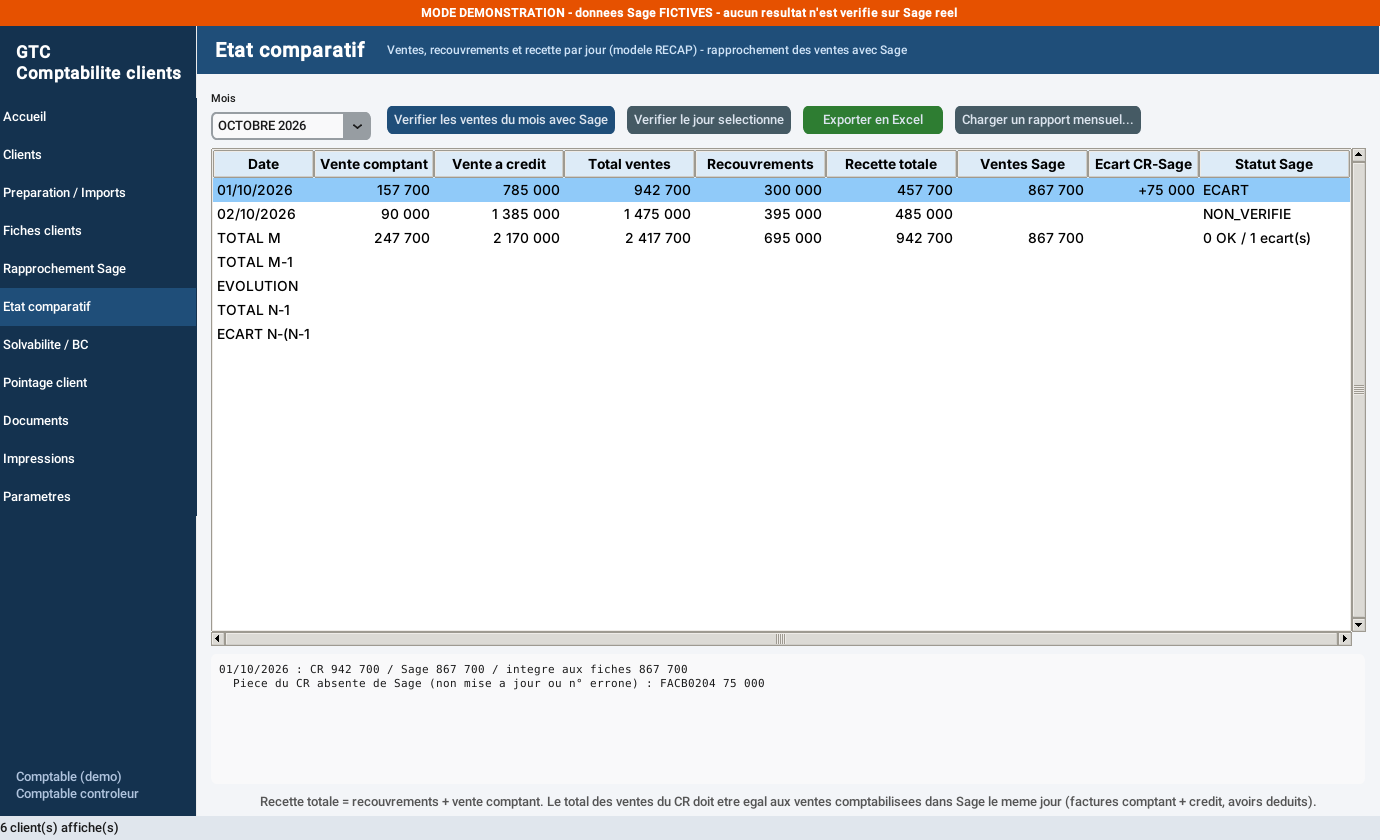
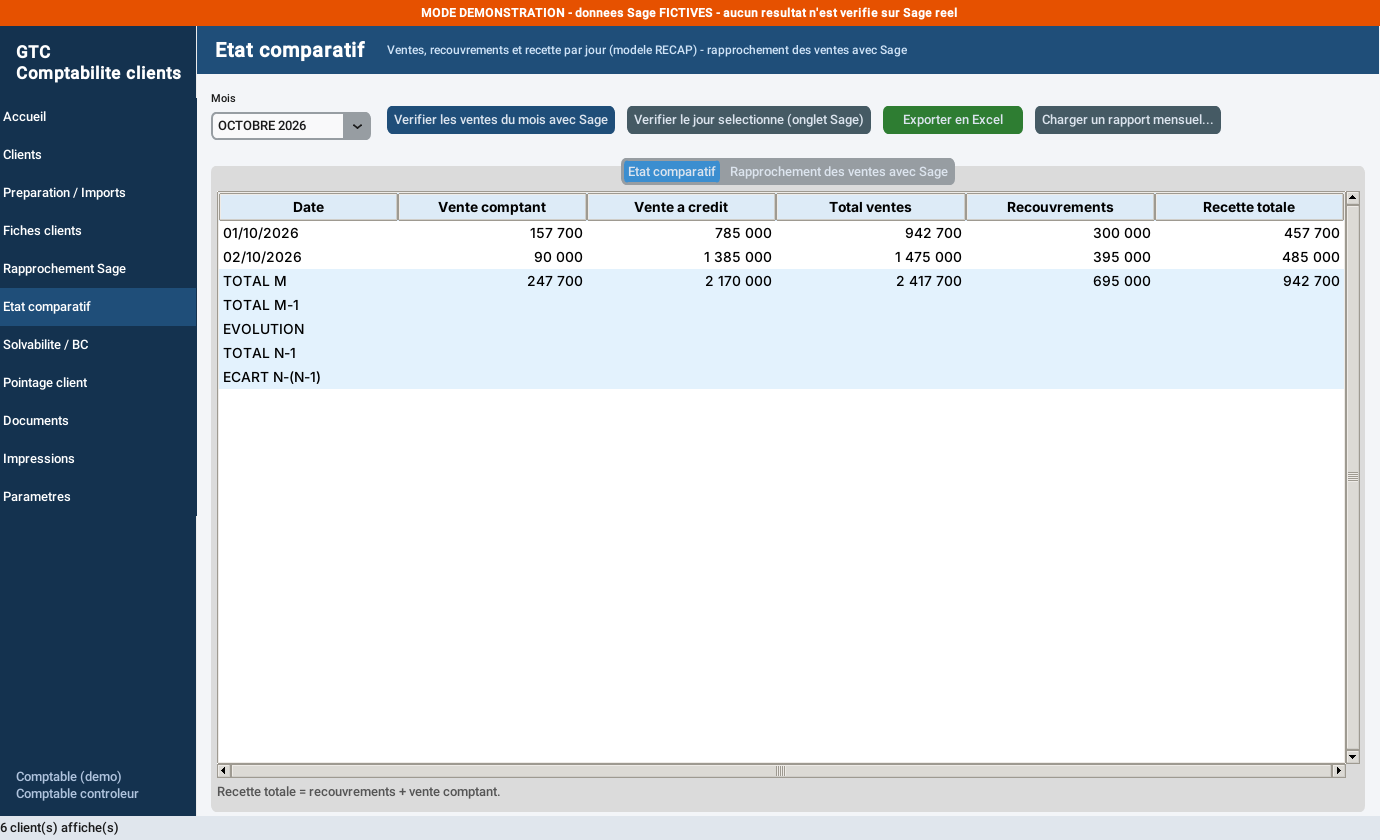
feat(compta-clients): l'etat comparatif s'arrete a la recette totale
- feuille mensuelle et ecran limites aux colonnes du modele : date, vente
  comptant, vente a credit, total ventes, recouvrements, recette totale
  (+ TOTAL M, M-1, EVOLUTION, N-1, ECART)
- rapprochement des ventes CR / Sage et controles presentes a part (onglet
  dedie ; feuilles RAPPROCHEMENT VENTES SAGE et CONTROLES de l'export)

Claude-Session: https://claude.ai/code/session_01Y1jhb7ptYrBLLHPzKGYzbe

Changed region(s): [[0.1558, 0.1238, 0.9971, 0.9905]]

diff --git a/gtc_compta_clients/gtc_compta/services/etat_comparatif.py b/gtc_compta_clients/gtc_compta/services/etat_comparatif.py
@@ -234,8 +234,15 @@ NOMS_MOIS = ["JANVIER", "FEVRIER", "MARS", "AVRIL", "MAI", "JUIN", "JUILLET", "A
              "NOVEMBRE", "DECEMBRE"]
 
 
+COLONNES_ETAT = ["vente_comptant", "vente_credit", "total_ventes", "recouvrements", "recette"]
+ENTETE_ETAT = ["DATES", "VENTE COMPTANT", "VENTE A CREDIT", "TOTAL VENTES", "RECOUVREMENTS", "RECETTE TOTALE"]
+
+
 def exporter_excel(db, agence: str, mois_liste: list[tuple[int, int]], dest, societe: str = "") -> str:
-    """Classeur Excel : une feuille par mois au format de la feuille RECAP, completee du rapprochement Sage."""
+    """Classeur Excel :
+    - une feuille par mois : l'ETAT COMPARATIF au format de la feuille RECAP, arrete a la RECETTE TOTALE ;
+    - RAPPROCHEMENT VENTES SAGE : total des ventes du CR / ventes comptabilisees dans Sage, par jour ;
+    - CONTROLES : TOTAL M-1 saisi dans RECAP compare au M-1 calcule, acompte et cellule du CR (information)."""
     from openpyxl import Workbook
     from openpyxl.styles import Alignment, Border, Font, PatternFill, Side
     wb = Workbook()
@@ -246,54 +253,88 @@ def exporter_excel(db, agence: str, mois_liste: list[tuple[int, int]], dest, soc
     vert = PatternFill("solid", fgColor="E8F5E9")
     fin = Side(style="thin", color="999999")
     cadre = Border(left=fin, right=fin, top=fin, bottom=fin)
-    entete = ["DATES", "VENTE COMPTANT", "VENTE A CREDIT", "TOTAL VENTES", "RECOUVREMENTS", "RECETTE TOTALE",
-              "ACOMPTE (info)", "TOTAL VENTES CR (cellule)", "VENTES SAGE", "ECART CR - SAGE", "STATUT SAGE"]
+
+    def entete(ws, cols):
+        ws.append(cols)
+        for c in ws[ws.max_row]:
+            c.font, c.fill, c.border = gras, bleu, cadre
+            c.alignment = Alignment(wrap_text=True, horizontal="center")
+
+    def montants(ws, debut):
+        for row in ws.iter_rows(min_row=debut, max_row=ws.max_row):
+            for c in row:
+                if isinstance(c.value, int) and not isinstance(c.value, bool):
+                    c.number_format = "# ##0"
+                elif isinstance(c.value, date):
+                    c.number_format = "DD/MM/YYYY"
+
+    tableaux = {}
     for annee, mois in sorted(mois_liste):
-        t = tableau_mois(db, agence, annee, mois)
+        t = tableaux[(annee, mois)] = tableau_mois(db, agence, annee, mois)
         ws = wb.create_sheet(f"{NOMS_MOIS[mois - 1][:9]} {annee}")
         ws.append([f"{societe} - {agence}"])
         ws.append([f"ETAT COMPARATIF - {NOMS_MOIS[mois - 1]} {annee}"])
         ws["A1"].font = gras
         ws["A2"].font = Font(bold=True, size=13)
-        ws.append(entete)
-        for c in ws[3]:
-            c.font, c.fill, c.border = gras, bleu, cadre
-            c.alignment = Alignment(wrap_text=True, horizontal="center")
+        entete(ws, ENTETE_ETAT)
         for r in t["jours"]:
-            ws.append([date.fromisoformat(r["date_jour"]), r["vente_comptant"], r["vente_credit"], r["total_ventes"],
-                       r["recouvrements"], r["recette"], r["acompte"], r["total_ventes_cellule_cr"], r["ventes_sage"],
-                       r["ecart_sage"], r["statut_sage"]])
-            ligne = ws[ws.max_row]
-            ligne[0].number_format = "DD/MM/YYYY"
-            if r["statut_sage"] == "ECART":
-                ligne[10].fill = rouge
-            elif r["statut_sage"] == "CONCORDANT":
-                ligne[10].fill = vert
+            ws.append([date.fromisoformat(r["date_jour"])] + [r[c] for c in COLONNES_ETAT])
+            for c in ws[ws.max_row]:
+                c.border = cadre
+
         def bloc(lib, d):
-            ws.append([lib] + ([d[c] for c in COLONNES] if d else ["n/d"] * len(COLONNES)))
+            ws.append([lib] + ([d[c] for c in COLONNES_ETAT] if d else ["n/d"] * len(COLONNES_ETAT)))
             for c in ws[ws.max_row]:
                 c.font, c.border = gras, cadre
         bloc("TOTAL M", t["total_m"])
         bloc("TOTAL M-1", t["total_m1"])
         bloc("EVOLUTION", t["evolution"])
-        bloc("TOTAL N-1" + (" (saisi dans RECAP)" if t.get("source_n1") == "saisi dans RECAP" else ""), t["total_n1"])
+        bloc("TOTAL N-1" + (" (saisi RECAP)" if t.get("source_n1") == "saisi dans RECAP" else ""), t["total_n1"])
         bloc("ECART N - (N-1)", t["ecart_n1"])
-        ws.append([])
-        s = t["sage"]
-        ws.append(["Rapprochement Sage", f"{s['jours_concordants']} jour(s) concordant(s)", f"{s['jours_ecart']} en ecart",
-                   f"{s['jours_non_verifies']} non verifie(s)"])
-        if t.get("m1_saisi_recap") and t["total_m1"]:
-            d = {c: t["m1_saisi_recap"][c] - t["total_m1"][c] for c in COLONNES}
-            if any(d[c] for c in ("vente_comptant", "vente_credit", "recouvrements")):
-                bloc("M-1 SAISI DANS RECAP", t["m1_saisi_recap"])
-                bloc("ECART M-1 SAISI - M-1 CALCULE", d)
-        ws.append(["Recette totale = recouvrements + vente comptant (regle GTC)."])
-        for row in ws.iter_rows(min_row=4, max_row=ws.max_row):
-            for c in row[1:10]:
-                if isinstance(c.value, int):
-                    c.number_format = "# ##0"
-        for col, larg in zip("ABCDEFGHIJK", (14, 16, 16, 16, 16, 16, 14, 18, 16, 16, 18)):
+        montants(ws, 4)
+        for col, larg in zip("ABCDEF", (22, 17, 17, 17, 17, 17)):
             ws.column_dimensions[col].width = larg
         ws.freeze_panes = "B4"
+
+    ws = wb.create_sheet("RAPPROCHEMENT VENTES SAGE")
+    ws.append(["Total des ventes du CR / ventes comptabilisees dans Sage le meme jour (factures comptant + credit, "
+               "avoirs deduits)"])
+    ws["A1"].font = gras
+    entete(ws, ["DATE", "TOTAL VENTES CR", "VENTES SAGE", "ECART CR - SAGE", "STATUT", "INTEGRE AUX FICHES",
+                "PIECES CR ABSENTES DE SAGE", "PIECES SAGE ABSENTES DU CR", "MONTANTS DIFFERENTS"])
+    for (annee, mois), t in tableaux.items():
+        for r in t["jours"]:
+            d = json.loads(r["detail_sage"]) if r["detail_sage"] else {}
+            ws.append([date.fromisoformat(r["date_jour"]), r["total_ventes"], r["ventes_sage"], r["ecart_sage"],
+                       r["statut_sage"], r["total_ventes_retenu"],
+                       ", ".join(f"{p} ({m})" for p, m in d.get("pieces_cr_absentes_de_sage", [])),
+                       ", ".join(f"{p} ({m})" for p, m in d.get("pieces_sage_absentes_du_cr", [])),
+                       ", ".join(f"{p} (CR {a} / Sage {b})" for p, a, b in d.get("montants_differents", []))])
+            if r["statut_sage"] in ("ECART", "CONCORDANT"):
+                ws[ws.max_row][4].fill = rouge if r["statut_sage"] == "ECART" else vert
+    montants(ws, 3)
+    for col, larg in zip("ABCDEFGHI", (12, 17, 17, 16, 18, 17, 45, 45, 45)):
+        ws.column_dimensions[col].width = larg
+    ws.freeze_panes = "B3"
+
+    ws = wb.create_sheet("CONTROLES")
+    entete(ws, ["MOIS", "CONTROLE", "VENTE COMPTANT", "VENTE A CREDIT", "TOTAL VENTES", "RECOUVREMENTS",
+                "RECETTE TOTALE"])
+    for (annee, mois), t in tableaux.items():
+        lib = f"{NOMS_MOIS[mois - 1]} {annee}"
+        if t.get("m1_saisi_recap"):
+            ws.append([lib, "TOTAL M-1 saisi dans RECAP"] + [t["m1_saisi_recap"][c] for c in COLONNES_ETAT])
+            if t["total_m1"]:
+                ws.append([lib, "Ecart M-1 saisi - M-1 calcule"]
+                          + [t["m1_saisi_recap"][c] - t["total_m1"][c] for c in COLONNES_ETAT])
+        acompte = sum(r["acompte"] or 0 for r in t["jours"])
+        cellule = [r for r in t["jours"] if r["total_ventes_cellule_cr"] is not None
+                   and r["total_ventes_cellule_cr"] != r["total_ventes"]]
+        ws.append([lib, f"Acompte du mois (colonne ENTREE des BC, information) : {acompte}"])
+        ws.append([lib, "Cellule 'vente totale' du CR = comptant + credit" if not cellule else
+                   "Cellule 'vente totale' du CR differente : " + ", ".join(r["date_jour"] for r in cellule)])
+    montants(ws, 2)
+    for col, larg in zip("ABCDEFG", (16, 60, 17, 17, 17, 17, 17)):
+        ws.column_dimensions[col].width = larg
     wb.save(dest)
     return str(dest)

diff --git a/gtc_compta_clients/gtc_compta/ui/pages.py b/gtc_compta_clients/gtc_compta/ui/pages.py
@@ -1268,20 +1268,27 @@ class EtatComparatif(Page):
                                     command=lambda _v: self.charger())
         self.mois.pack()
         bouton(b, "Verifier les ventes du mois avec Sage", self.verifier_mois).pack(side="left", padx=6, pady=(16, 0))
-        bouton(b, "Verifier le jour selectionne", self.verifier_jour, couleur="#455A64").pack(side="left", padx=6, pady=(16, 0))
+        bouton(b, "Verifier le jour selectionne (onglet Sage)", self.verifier_jour, couleur="#455A64").pack(side="left", padx=6, pady=(16, 0))
         bouton(b, "Exporter en Excel", self.exporter, couleur=VERT).pack(side="left", padx=6, pady=(16, 0))
         bouton(b, "Charger un rapport mensuel...", self.charger_rapport, couleur="#455A64",
                actif=self.user.peut("importer"), motif="Reserve aux roles autorises (importer)").pack(side="left", padx=6, pady=(16, 0))
-        self.t = Table(self, [("d", "Date", 100, "w"), ("vc", "Vente comptant", 120, "e"), ("vk", "Vente a credit", 130, "e"),
-                              ("tv", "Total ventes", 130, "e"), ("rc", "Recouvrements", 130, "e"), ("re", "Recette totale", 130, "e"),
-                              ("vs", "Ventes Sage", 130, "e"), ("ec", "Ecart CR-Sage", 110, "e"), ("st", "Statut Sage", 150, "w")],
-                       height=15, on_select=self.detail)
-        self.t.pack(fill="both", expand=True, padx=14, pady=4)
-        self.lbl = ctk.CTkTextbox(self, height=130, font=ctk.CTkFont(family="Consolas", size=11))
-        self.lbl.pack(fill="x", padx=14, pady=4)
-        ctk.CTkLabel(self, text="Recette totale = recouvrements + vente comptant. Le total des ventes du CR doit etre egal "
-                                "aux ventes comptabilisees dans Sage le meme jour (factures comptant + credit, avoirs deduits).",
-                     text_color="#555", wraplength=1100, justify="left").pack(fill="x", padx=16)
+        onglets = ctk.CTkTabview(self)
+        onglets.pack(fill="both", expand=True, padx=14, pady=4)
+        o1 = onglets.add("Etat comparatif")
+        self.t = Table(o1, [("d", "Date", 150, "w"), ("vc", "Vente comptant", 160, "e"), ("vk", "Vente a credit", 160, "e"),
+                            ("tv", "Total ventes", 160, "e"), ("rc", "Recouvrements", 160, "e"),
+                            ("re", "Recette totale", 160, "e")], height=16)
+        self.t.pack(fill="both", expand=True)
+        ctk.CTkLabel(o1, text="Recette totale = recouvrements + vente comptant.", text_color="#555").pack(anchor="w")
+        o2 = onglets.add("Rapprochement des ventes avec Sage")
+        self.ts = Table(o2, [("d", "Date", 100, "w"), ("tv", "Total ventes CR", 150, "e"), ("vs", "Ventes Sage", 150, "e"),
+                             ("ec", "Ecart CR - Sage", 140, "e"), ("st", "Statut", 160, "w"),
+                             ("fi", "Integre aux fiches", 150, "e")], height=11, on_select=self.detail)
+        self.ts.pack(fill="both", expand=True)
+        self.lbl = ctk.CTkTextbox(o2, height=120, font=ctk.CTkFont(family="Consolas", size=11))
+        self.lbl.pack(fill="x", pady=4)
+        ctk.CTkLabel(o2, text="Le total des ventes du CR doit etre egal aux ventes comptabilisees dans Sage le meme jour "
+                              "(factures comptant + credit, avoirs deduits).", text_color="#555").pack(anchor="w")
         self.charger()
 
     def _liste_mois(self):
@@ -1300,20 +1307,21 @@ class EtatComparatif(Page):
             self.t.remplir([], lambda r: r)
             return
         t = self.ec.tableau_mois(self.db, self.cfg["agence"], *m)
+        cols = self.ec.COLONNES_ETAT
         lignes = [dict(r) for r in t["jours"]]
         for lib, cle in (("TOTAL M", "total_m"), ("TOTAL M-1", "total_m1"), ("EVOLUTION", "evolution"),
-                         ("TOTAL N-1", "total_n1"), ("ECART N-(N-1)", "ecart_n1")):
+                         ("TOTAL N-1" + (" (RECAP)" if t.get("source_n1") == "saisi dans RECAP" else ""), "total_n1"),
+                         ("ECART N-(N-1)", "ecart_n1")):
             d = t[cle]
-            lignes.append({"date_jour": lib, **({c: d[c] for c in self.ec.COLONNES} if d else {c: None for c in self.ec.COLONNES}),
-                           "ventes_sage": t["sage"]["ventes_sage"] if cle == "total_m" else None, "ecart_sage": None,
-                           "statut_sage": (f"{t['sage']['jours_concordants']} OK / {t['sage']['jours_ecart']} ecart(s)"
-                                           if cle == "total_m" else ""), "detail_sage": None})
-        self.t.remplir(lignes, lambda r: (_fd(r["date_jour"]) if r["date_jour"][:2] == "20" else r["date_jour"],
-                                          fmt_fcfa(r["vente_comptant"]), fmt_fcfa(r["vente_credit"]),
-                                          fmt_fcfa(r["total_ventes"]), fmt_fcfa(r["recouvrements"]), fmt_fcfa(r["recette"]),
-                                          fmt_fcfa(r["ventes_sage"]), fmt_fcfa(r["ecart_sage"], True), r["statut_sage"]),
-                       tag=lambda r: {"CONCORDANT": "VALIDE", "ECART": "ECART_A_ANALYSER",
-                                      "SAGE_INDISPONIBLE": "EN_ATTENTE_SAGE"}.get(r["statut_sage"]))
+            lignes.append({"date_jour": lib, **({c: d[c] for c in cols} if d else {c: None for c in cols})})
+        self.t.remplir(lignes, lambda r: tuple([_fd(r["date_jour"]) if r["date_jour"][:2] == "20" else r["date_jour"]]
+                                               + [fmt_fcfa(r[c]) for c in cols]),
+                       tag=lambda r: None if r["date_jour"][:2] == "20" else "RAPPROCHE")
+        self.ts.remplir([dict(r) for r in t["jours"]],
+                        lambda r: (_fd(r["date_jour"]), fmt_fcfa(r["total_ventes"]), fmt_fcfa(r["ventes_sage"]),
+                                   fmt_fcfa(r["ecart_sage"], True), r["statut_sage"], fmt_fcfa(r["total_ventes_retenu"])),
+                        tag=lambda r: {"CONCORDANT": "VALIDE", "ECART": "ECART_A_ANALYSER",
+                                       "SAGE_INDISPONIBLE": "EN_ATTENTE_SAGE"}.get(r["statut_sage"]))
 
     def detail(self, r):
         self.lbl.delete("1.0", "end")
@@ -1342,8 +1350,8 @@ class EtatComparatif(Page):
                                                        f"{sum(1 for v in r.values() if v == 'SAGE_INDISPONIBLE')} Sage indisponible.")))
 
     def verifier_jour(self):
-        r = self.t.selection()
-        if not r or r["date_jour"][:2] != "20":
+        r = self.ts.selection()
+        if not r:
             return erreur("Selectionner une journee.")
         self.app.tache("Rapprochement des ventes du jour", lambda: self.ec.rapprocher_ventes_jour(
             self.db, self.user, self.sage, self.cfg["agence"], date.fromisoformat(r["date_jour"])), lambda _r: self.charger())

diff --git a/gtc_compta_clients/tests/test_etat_comparatif.py b/gtc_compta_clients/tests/test_etat_comparatif.py
@@ -80,9 +80,10 @@ def test_tableau_du_mois_et_export_excel(base, user, cfg, tmp_path):
     assert t["evolution"]["recouvrements"] == t["total_m"]["recouvrements"] - t["total_m1"]["recouvrements"]
     dest = ec.exporter_excel(base, "BERTOUA", [(2026, 9), (2026, 10)], tmp_path / "etat.xlsx", "GTC")
     wb = load_workbook(dest)
-    assert wb.sheetnames == ["SEPTEMBRE 2026", "OCTOBRE 2026"]
+    assert wb.sheetnames == ["SEPTEMBRE 2026", "OCTOBRE 2026", "RAPPROCHEMENT VENTES SAGE", "CONTROLES"]
     ws = wb["OCTOBRE 2026"]
     assert ws["A3"].value == "DATES" and ws["F3"].value == "RECETTE TOTALE"
+    assert ws.max_column == 6                                  # l'etat comparatif s'arrete a la recette totale
     assert any(r[0].value == "TOTAL M" for r in ws.iter_rows())
 
 

diff --git a/gtc_compta_clients/tools/captures.py b/gtc_compta_clients/tools/captures.py
@@ -53,7 +53,7 @@ def main():
                 iid = next(i for i, r in p.t._data.items() if r["ct_num"] == "CL003")
                 p.t.tv.selection_set(iid)
             elif key == "etat":
-                p.t.tv.selection_set("0")
+                pass
             elif key == "solvabilite":
                 p.bc.insert(0, "BCCB0101")
                 p.controler()

diff --git a/gtc_compta_clients/docs/ETAT_COMPARATIF.md b/gtc_compta_clients/docs/ETAT_COMPARATIF.md
@@ -10,8 +10,11 @@ Un grand tableau par mois, une ligne par jour :
 | TOTAL VENTES | vente comptant + vente à crédit (= cellule du CR qui calcule la vente totale, 2ᵉ ligne « TOTAL VENTES ») |
 | RECOUVREMENTS | somme des reçus (RECOUVREMENTS) |
 | **RECETTE TOTALE** | **recouvrements + vente comptant** (règle GTC) |
-| ACOMPTE (info) | colonne ENTREE des BC |
-| VENTES SAGE / ÉCART / STATUT | rapprochement avec Sage Comptabilité (ci-dessous) |
+
+**L'état comparatif s'arrête à la RECETTE TOTALE.** Le rapprochement avec Sage et les contrôles sont présentés à part :
+onglet « Rapprochement des ventes avec Sage » dans l'application, et feuilles `RAPPROCHEMENT VENTES SAGE` et
+`CONTROLES` dans l'export Excel (TOTAL M-1 saisi dans RECAP comparé au M-1 calculé, acompte du mois, cellule
+« vente totale » du CR).
 
 Puis, comme dans RECAP : **TOTAL M**, **TOTAL M-1** (calculé sur le mois précédent chargé), **ÉVOLUTION**, **TOTAL N-1**
 (calculé si l'année précédente est chargée, sinon repris de la ligne saisie dans RECAP, avec la mention « saisi dans
@@ -42,8 +45,8 @@ Le contrôle est lancé automatiquement à l'import de chaque journée, et à la
 - **Application** : module « État comparatif » (choix du mois, rapprochement Sage, détail des écarts, export Excel,
   chargement d'un rapport mensuel complet pour l'historique).
 - **Outil** : `python tools/etat_comparatif.py "04 RC AVR.xlsx" … "10 RC OCT.xlsx" --sortie ETAT_COMPARATIF.xlsx
-  [--config config.json]`. Il produit une feuille par mois, ainsi que les feuilles ANALYSE_MENSUELLE et
-  CONTROLE_RECAP. Avec `--config` en mode `sql`, le rapprochement Sage de chaque jour est fait.
+  [--config config.json]`. Il produit une feuille d'état comparatif par mois (jusqu'à la recette totale), ainsi
+  que les feuilles RAPPROCHEMENT VENTES SAGE, CONTROLES, ANALYSE_MENSUELLE et CONTROLE_RECAP. Avec `--config` en mode `sql`, le rapprochement Sage de chaque jour est fait.
 
 ## Constats sur avril → octobre 2026
 | Mois | Total ventes | Recouvrements | Recette totale |
